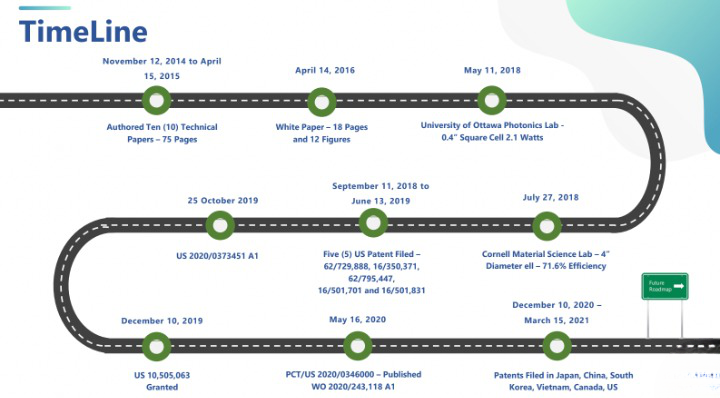
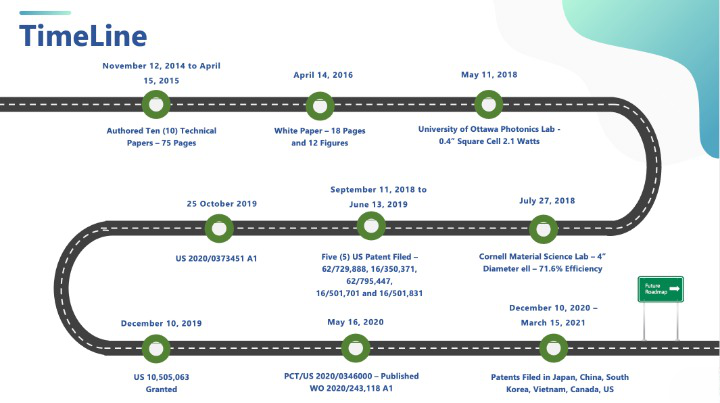
hero

diff --git a/components/Hero/Hero.js b/components/Hero/Hero.js
@@ -1,7 +1,8 @@
 import Image from "next/image";
+import Link from "next/link";
 
 const Hero = () => (
-  <div className="h-5/6 relative bg-black">
+  <div className="h-[47em] lg-h-[50rem] relative bg-black">
     <div className="bg-blue-200 h-full w-full absolute opacity-60">
       <Image
         src="/images/solar.jpeg"
@@ -13,16 +14,18 @@ const Hero = () => (
         objectPosition={"bottom"}
       ></Image>
     </div>
-    <div className="h-3/6 pt-12 flex flex-col z-10 relative text-gray-100">
-      <h2 className=" ml-7 text-[40px] max-w-md font-bold text-[Montserrat]">
+    <div className=" h-3/6 pt-36 flex flex-col z-10 relative text-gray-100">
+      <h2 className="ml-4 lg:ml-12 text-[40px] max-w-md font-bold text-[Montserrat]">
         Pioneers of Solar And Renewable Energy
       </h2>
-      <blockquote className="ml-7 max-w-md text-[18px] text-semibold font-sans">
+      <blockquote className="ml-4 lg:ml-12 max-w-md text-[18px] text-semibold font-sans">
         Lorem ipsum dolor sit amet, consectetur adipiscing elit, sed do eiusmod
         tempor incididunt ut labore et dolore magna aliqua. Ut enim ad minim
       </blockquote>
-      <button className="shadow-lg w-fit mb-12 shadow-green-100/50 bg-main  cursor-pointer rounded-full ml-6 font-semibold mt-3 p-3 text-white">
-        <span className="mx-3 hover:text-orange-200">Read More</span>
+      <button className="shadow-lg w-fit mb-12 shadow-green-100/50 bg-main  cursor-pointer rounded-full ml-3 md:ml-10 font-semibold mt-3 p-3 text-white">
+        <Link href="#solar" passHref>
+          <span className="mx-3 hover:text-orange-200">Read More</span>
+        </Link>
       </button>
     </div>
   </div>

diff --git a/pages/index.js b/pages/index.js
@@ -5,15 +5,17 @@ import GrapheneSection from "../components/GrapheneSection";
 import Goal from "../components/Goal";
 import Problems from "../components/Problems";
 import TimeLine from "../components/Timeline";
+import Valuation from "../components/Valuation";
 export default function Home() {
   return (
     <Layout>
       <Hero />
-      <Goal />
+      <Valuation />
       <div className="grid bg-gradient-to-br from-[#7a7b7afb] to-[#353434] md:pb-20 md:border-b-2 md:border-b-orange-100">
         <IndustrySection />
         <GrapheneSection />
       </div>{" "}
+      <Goal />
       <Problems />
       <TimeLine />
     </Layout>

diff --git a/components/Timeline.js b/components/Timeline.js
@@ -1,10 +1,10 @@
 import Image from "next/image";
 const TimeLine = () => {
   return (
-    <div className="relative h-96 md:w-8/12 md:m-auto m-2 mb-10 md:mt-0 mt-10 md:mb-2 ">
-      <div className="max-w-min md:m-2">
+    <div className="relative h-[20rem] w-11/12 lg:h-[45rem] m-auto mb-5">
+      <div className="m-5">
         <Image
-          src="/images/timeline.jpeg"
+          src="/images/time.png"
           alt="p"
           className="rounded-lg"
           layout="fill"

diff --git a/components/Valuation.js b/components/Valuation.js
@@ -1,0 +1,18 @@
+import Image from "next/image";
+const Valuation = () => (
+  <div
+    className="h-[20rem] md:h-[38rem] lg:h-[45rem] w-full relative "
+    id="solar"
+  >
+    <div className="flex bg-red-50 h-full w-full justify-center">
+      <Image
+        src={`/images/bs.png`}
+        className="shadow-sm shadow-green-200"
+        layout="fill"
+        alt="a"
+      ></Image>
+    </div>{" "}
+  </div>
+);
+
+export default Valuation;

diff --git a/components/ContactForm.js b/components/ContactForm.js
@@ -18,7 +18,7 @@ const ContactForm = () => {
         </h2>
         <p className="max-w-sm m-auto">
           Feel free to voice all questions or concerns and we will get back to
-          you as soon as possible!
+          you as soon as possible !
         </p>
       </section>
       <form className="border-black min-w-max bg-gray-500 lg:w-5/12 border-4 rounded-lg mt-3 p-5 min-h-fit w-3/4 m-auto grid gap-7 justify-center ">

diff --git a/pages/team.js b/pages/team.js
@@ -64,8 +64,8 @@ const teamMembers = [
 export const Team = () => (
   <Layout>
     <div className="mb-20">
-      <h1 className="text-center mt-10 text-2xl font-[Open-Sans] font-semibold">
-        Our Team
+      <h1 className="text-center text-white mt-10 text-2xl font-[Open-Sans] font-semibold">
+        The Team
       </h1>
       <div className="grid h-2/3 mt-1 gap-6">
         {teamMembers.map((member, i) => (
